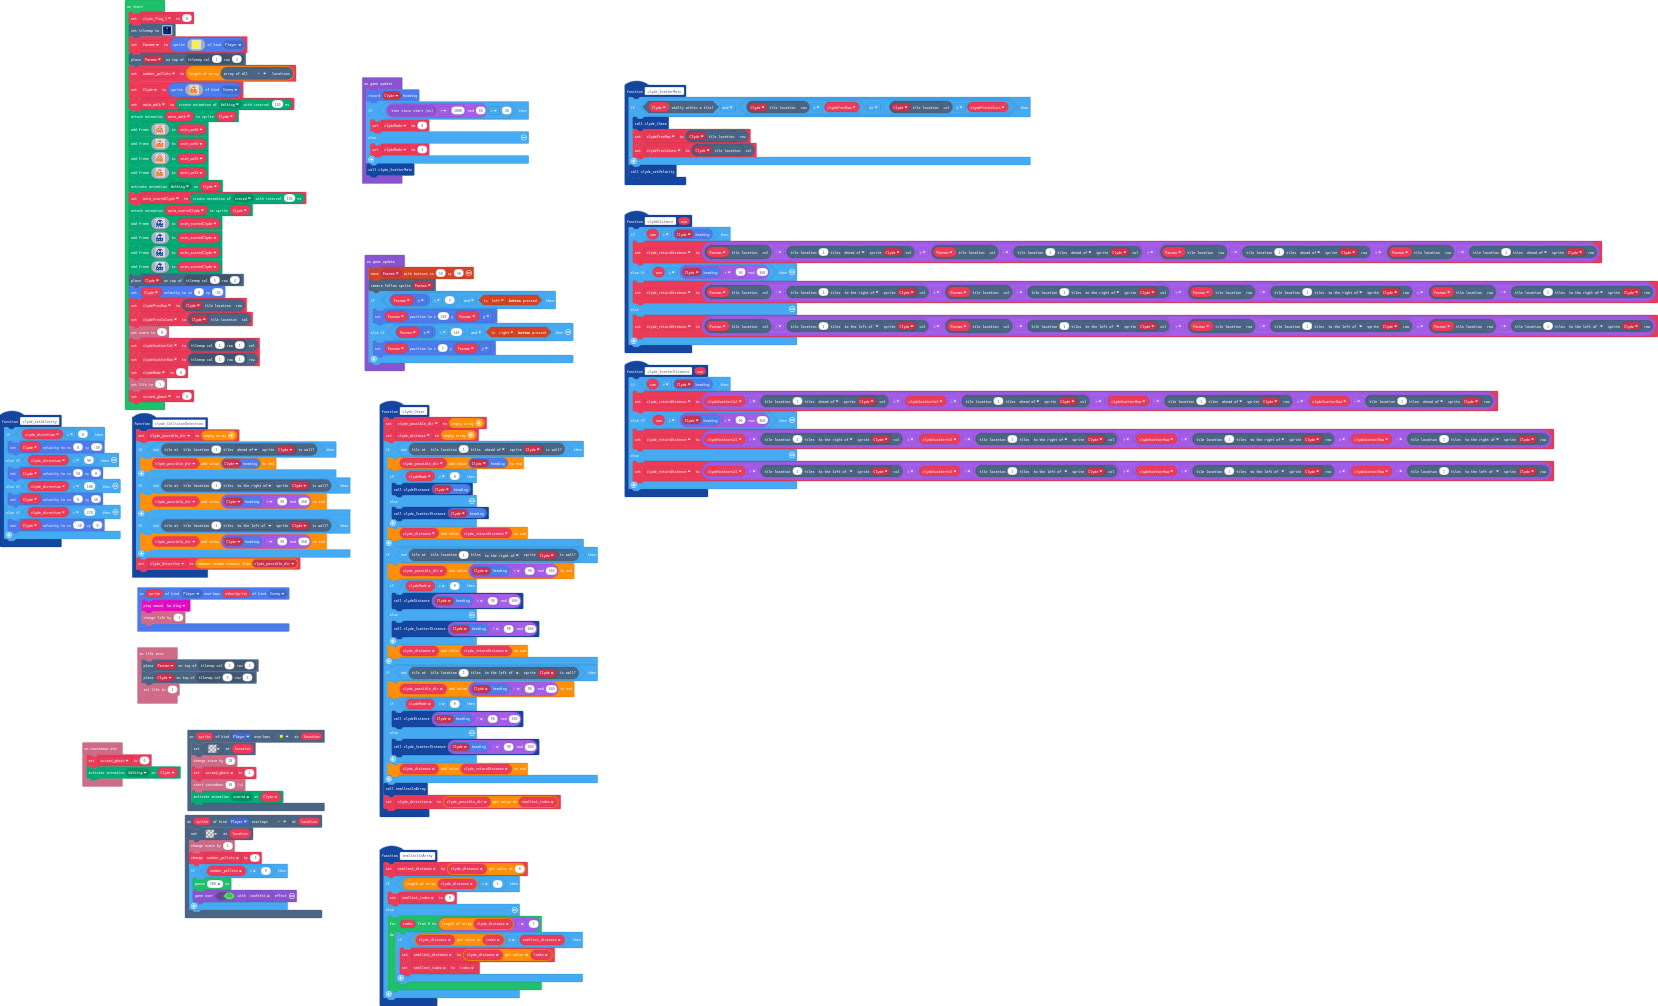
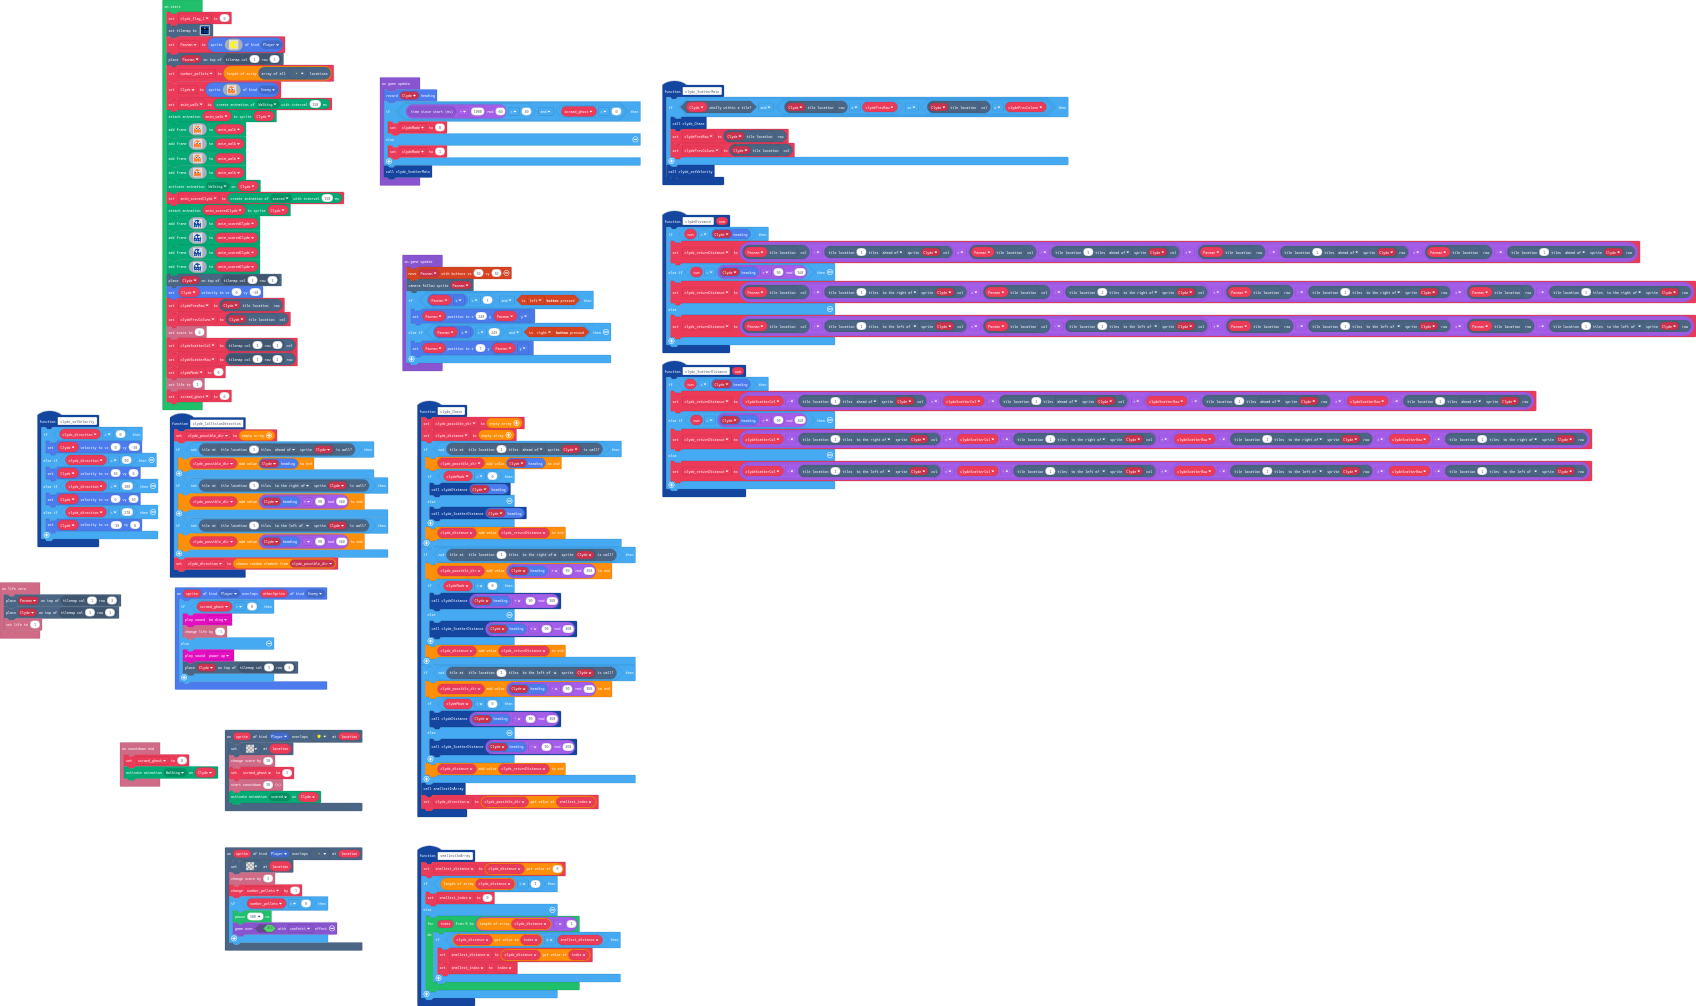
pacman can now eat ghosts.

diff --git a/main.ts b/main.ts
@@ -178,8 +178,13 @@ function clyde_ScatterDistance (num: number) {
     }
 }
 sprites.onOverlap(SpriteKind.Player, SpriteKind.Enemy, function (sprite, otherSprite) {
-    music.baDing.play()
-    info.changeLifeBy(-1)
+    if (scraed_ghost == 0) {
+        music.baDing.play()
+        info.changeLifeBy(-1)
+    } else {
+        music.powerUp.play()
+        tiles.placeOnTile(Clyde, tiles.getTileLocation(5, 3))
+    }
 })
 info.onCountdownEnd(function () {
     scraed_ghost = 0
@@ -467,7 +472,7 @@ info.setLife(1)
 scraed_ghost = 0
 game.onUpdate(function () {
     sprites.updateheading(Clyde)
-    if (Math.mod(game.runtime() / 1000, 60) < 30) {
+    if (Math.mod(game.runtime() / 1000, 60) < 30 && scraed_ghost == 0) {
         clydeMode = 0
     } else {
         clydeMode = 1
